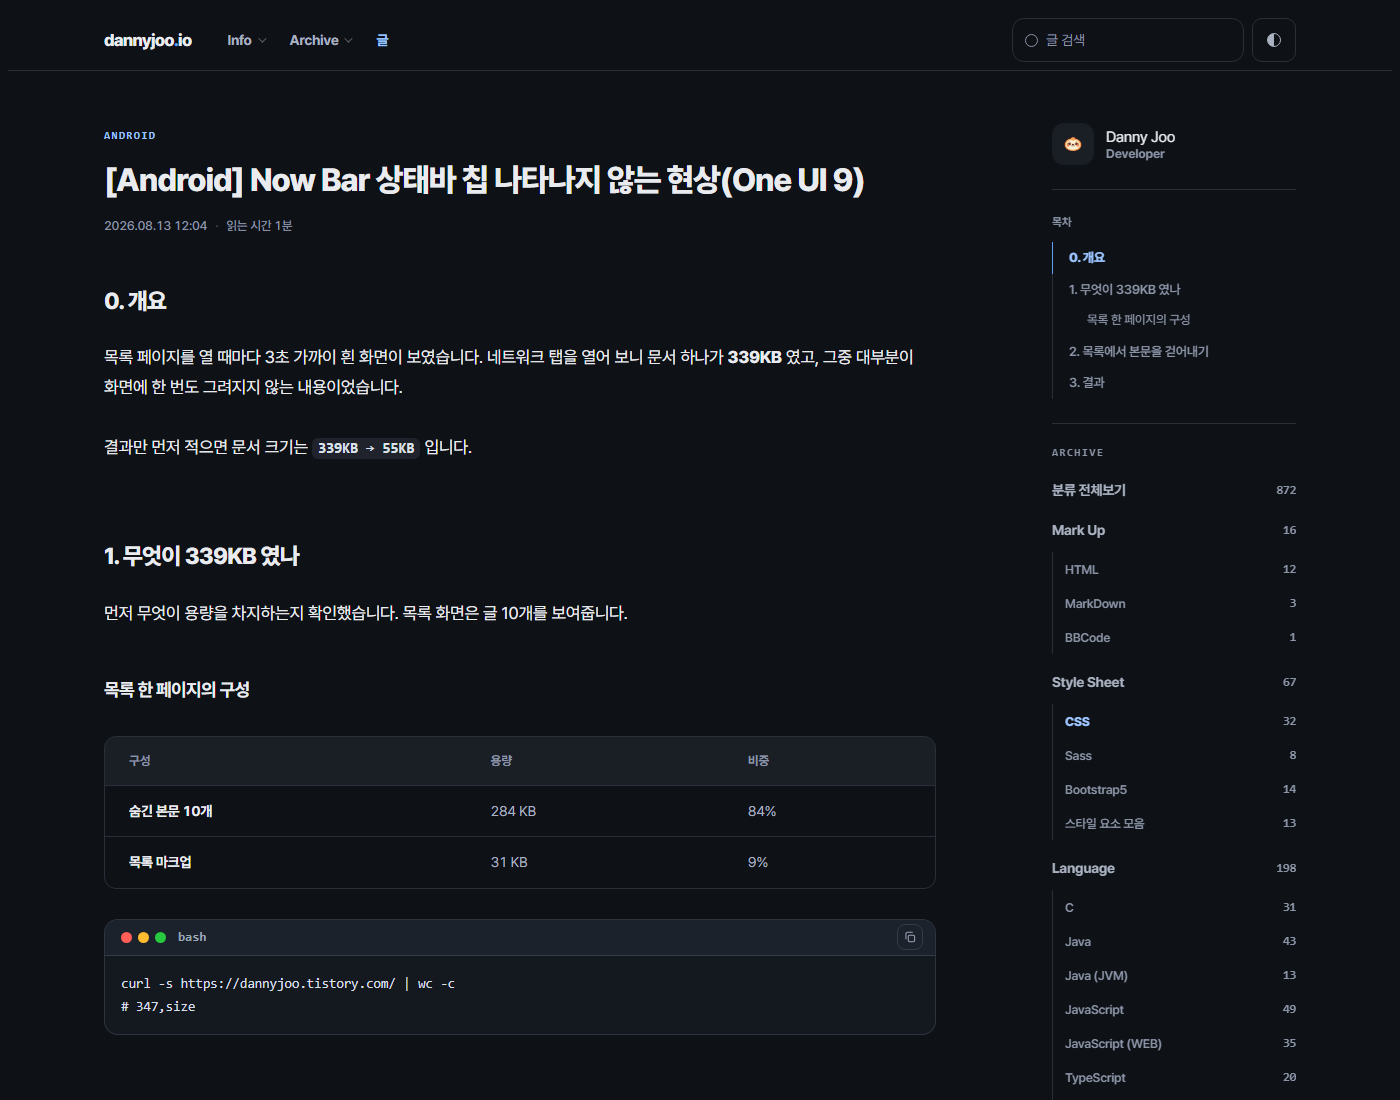
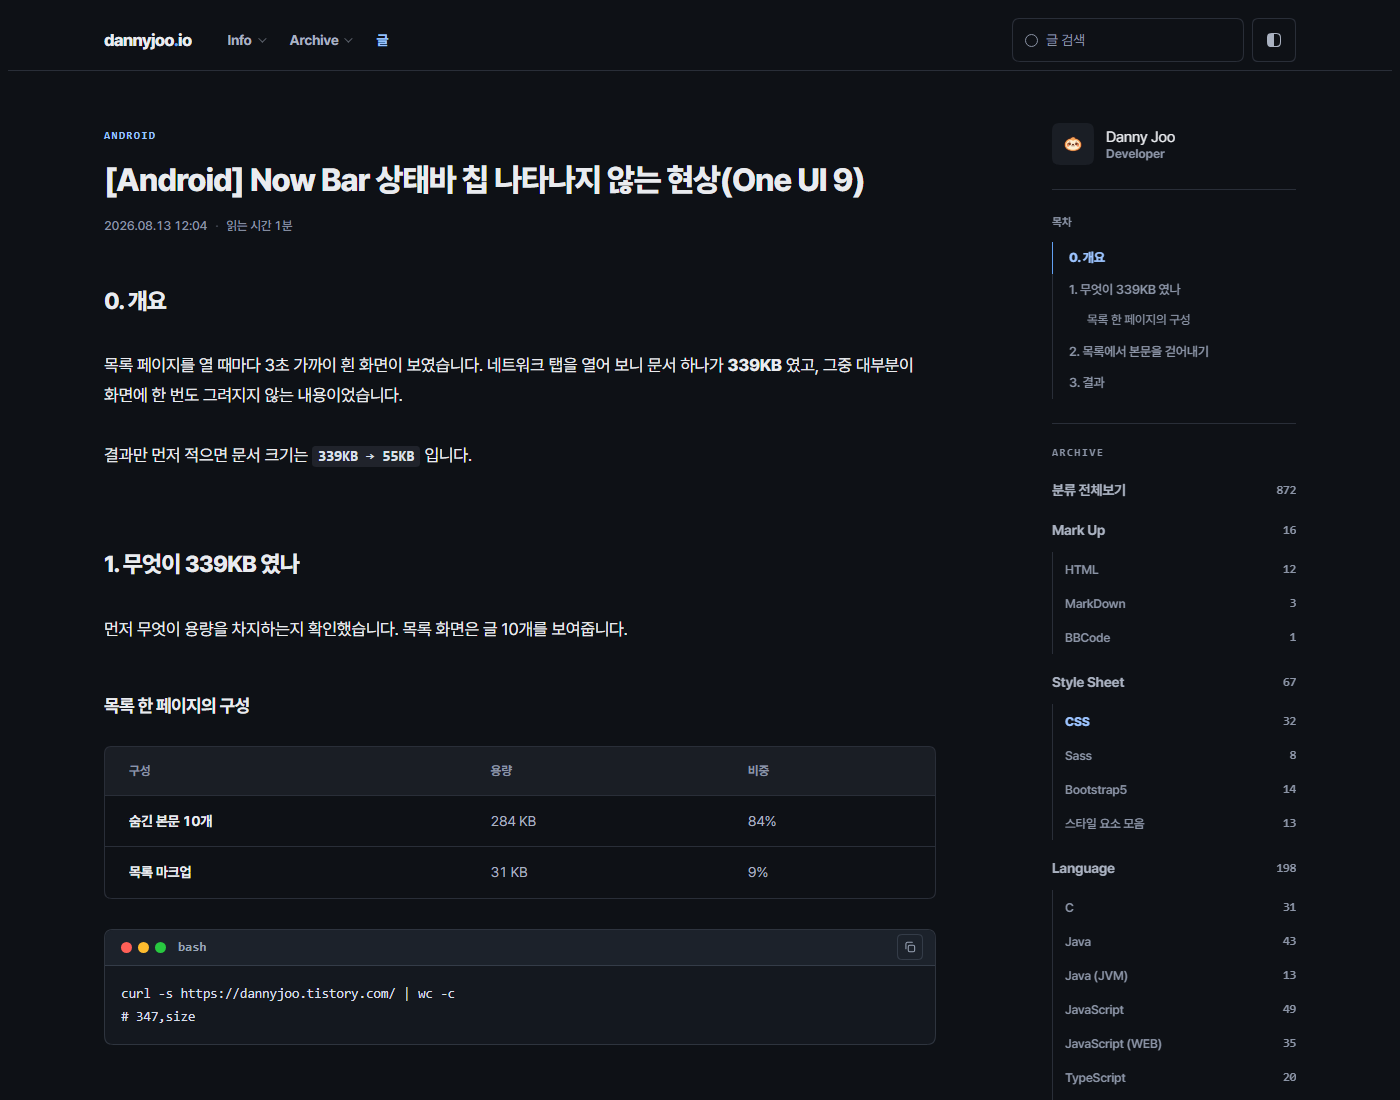
style: Grain 애플식 연속 곡률 모서리, 제목 아래 여백 확대, 미리보기에 contents_style 래퍼 반영

diff --git a/design/blog/grain/style.css b/design/blog/grain/style.css
@@ -1235,6 +1235,17 @@ button { cursor: pointer; }
 
 /* ===== 스킨 전용 ===== */
 
+/* 애플식 라운디드 스퀘어. border-radius 는 원호라 모서리가 갑자기 꺾이는데,
+   corner-shape: squircle 은 연속 곡률이라 아이콘·카드처럼 부드럽게 이어진다.
+   지원 안 하는 브라우저는 지금처럼 원호로 그려진다 */
+@supports (corner-shape: squircle) {
+  * { corner-shape: squircle; }
+  /* 완전한 원인 것들은 그대로 둔다 */
+  .cat-new,
+  .code-block__lights i,
+  .site-search__glass { corner-shape: round; }
+}
+
 /* 화면 전환용. UA 의 [hidden] 은 display:grid 같은 규칙에 밀린다.
    이게 없으면 글 상세 위에 목록이 그대로 남는다 */
 [hidden] { display: none !important; }
@@ -1306,9 +1317,9 @@ button { cursor: pointer; }
 .post-body .contents_style > * + * { margin-top: var(--post-gap); }
 .post-body .contents_style > *:first-child { margin-top: 0; }
 .post-body .contents_style > h2 { margin-top: var(--post-h2-top); }
-.post-body .contents_style > h2 + * { margin-top: var(--post-h2-bottom); }
+.post-body .contents_style > h2 + * { margin-top: var(--sp-6); }   /* 34px. 26px 는 붙어 보였다 */
 .post-body .contents_style > h3 { margin-top: var(--post-h3-top); }
-.post-body .contents_style > h3 + * { margin-top: var(--post-h3-bottom); }
+.post-body .contents_style > h3 + * { margin-top: var(--sp-5); }   /* 24px */
 
 /* 사이드바 자체 스크롤바가 본문 옆에 그어져 거슬린다. 스크롤은 살리고 막대만 숨긴다 */
 .sidebar { scrollbar-width: none; }
